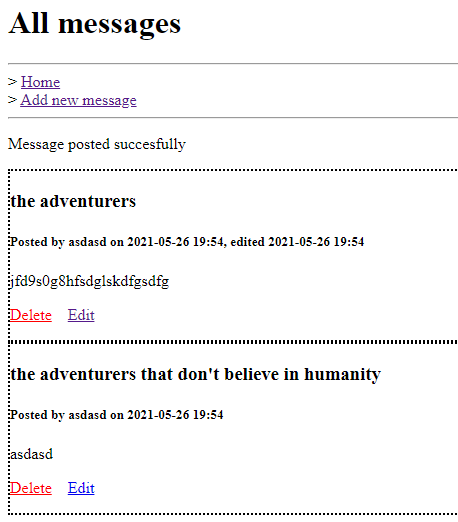
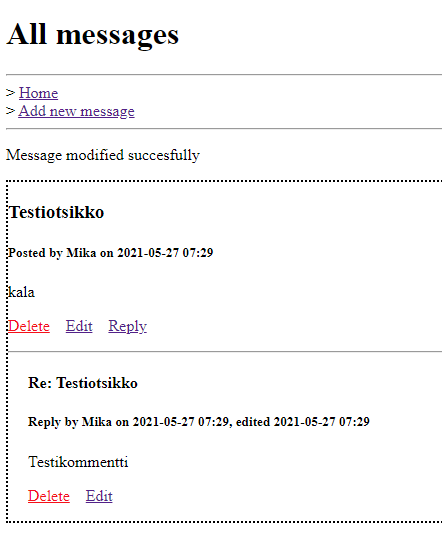
Modified reply system

Changed region(s): [[0.0, 0.3372, 1.0, 1.0], [0.0, 0.0, 1.0, 0.3065]]

diff --git a/pw3.3-flask-orm-crud/templates/index.html b/pw3.3-flask-orm-crud/templates/index.html
@@ -3,10 +3,21 @@
 {% block content %}
 {% for message in messages %}
 <div style="border: 2px; border-style: dotted;">
-<h3>{{ message.title }}</h3>
-<h5>Posted by {{ message.user }} on {{ message.timestamp.strftime('%Y-%m-%d %H:%M') }}{% if message.modified %}, edited {{ message.modified.strftime('%Y-%m-%d %H:%M') }}{% endif %}</h5>
-<p>{{ message.content }}</p>
-<p><a href="/delete?id={{ message.id }}" style = "color: red;">Delete</a>&nbsp;&nbsp;&nbsp;&nbsp;<a href="/edit?id={{ message.id }}">Edit</a></p>
+    <h3>{{ message.title }}</h3>
+    <h5>Posted by {{ message.user }} on {{ message.timestamp.strftime('%Y-%m-%d %H:%M') }}{% if message.modified %}, edited {{ message.modified.strftime('%Y-%m-%d %H:%M') }}{% endif %}</h5>
+    <p>{{ message.content }}</p>
+    <p><a href="/delete?id={{ message.id }}" style = "color: red;">Delete</a>&nbsp;&nbsp;&nbsp;&nbsp;<a href="/edit?id={{ message.id }}">Edit</a>&nbsp;&nbsp;&nbsp;&nbsp;<a href="/add?reply={{ message.id }}">Reply</a></p>
+    {% if message.replies %}
+    {% for reply in message.replies %}
+    <hr>
+    <div style="margin-left: 20px;">
+        <h4>{{ reply.title }}</h4>
+        <h5>Reply by {{ reply.user }} on {{ reply.timestamp.strftime('%Y-%m-%d %H:%M') }}{% if reply.modified %}, edited {{ reply.modified.strftime('%Y-%m-%d %H:%M') }}{% endif %}</h5>
+        <p>{{ reply.content }}</p>
+        <p><a href="/delete?id={{ reply.id }}" style = "color: red;">Delete</a>&nbsp;&nbsp;&nbsp;&nbsp;<a href="/edit?id={{ reply.id }}">Edit</a></p>
+    </div>
+    {% endfor %}
+    {% endif %}
 </div>
 {% endfor %}
 {% endblock content %}

diff --git a/pw3.3-flask-orm-crud/templates/add_form.html b/pw3.3-flask-orm-crud/templates/add_form.html
@@ -1,7 +1,7 @@
 {% extends 'base.html' %}
 
 {% block content %}
-<form method = "POST", action="/add">
+<form method = "POST">
     {% for field in form %}
     <p>{% if not field.flags.hidden %}{{ field.label }}: {% endif %}{{ field }}</p>
     {% endfor %}

diff --git a/pw3.3-flask-orm-crud/flask_orm_crud.py b/pw3.3-flask-orm-crud/flask_orm_crud.py
@@ -8,7 +8,7 @@ from markupsafe import escape
 
 
 app = Flask(__name__)
-app.secret_key = SystemRandom.randbytes(SystemError, 128)
+app.secret_key = SystemRandom.randbytes(SystemRandom, 128)
 
 db = SQLAlchemy(app)
 
@@ -17,13 +17,14 @@ class Message(db.Model):
     user = db.Column(db.String, nullable = False)
     title = db.Column(db.String, nullable = False)
     content = db.Column(db.String, nullable = False)
-    timestamp = db.Column(db.DateTime, nullable = False, default = datetime.now())
+    timestamp = db.Column(db.DateTime, nullable = False, default = datetime.utcnow())
     modified = db.Column(db.DateTime)
     parent_id = db.Column(db.Integer, db.ForeignKey('message.id'))
     replies = db.relationship('Message', backref = db.backref('parent', remote_side = [id]))
 
 NewMessageForm = model_form(Message, db_session = db.session, base_class = FlaskForm, exclude = ['replies', 'parent', 'timestamp', 'modified'])
 EditMessageForm = model_form(Message, db_session = db.session, base_class = FlaskForm, exclude = ['user', 'replies', 'parent', 'timestamp', 'modified'])
+ReplyMessageForm = model_form(Message, db_session = db.session, base_class = FlaskForm, exclude = ['title', 'replies', 'parent', 'timestamp', 'modified'])
 
 @app.before_first_request
 class initDB():
@@ -32,15 +33,22 @@ class initDB():
 @app.route('/')
 def index():
     title = 'All messages'
-    messages = Message.query.all()
+    messages = Message.query.filter(Message.parent_id == None).all()
     return render_template('index.html', title = title, messages = messages)
 
 @app.route('/add', methods = ['GET', 'POST'])
 def add():
-    form = NewMessageForm()
+    if not request.args.get('reply'):
+        form = NewMessageForm()
+    else:
+        form = ReplyMessageForm()
     if(form.validate_on_submit()):
         message = Message()
         form.populate_obj(message)
+        if request.args.get('reply'):
+            parent_id = int(request.args.get('reply'))
+            message.parent_id = parent_id
+            message.title = f'Re: {Message.query.get(parent_id).title}'
         db.session.add(message)
         db.session.commit()
         flash('Message posted succesfully')
@@ -54,9 +62,8 @@ def edit():
     message = Message.query.get(id)
     form = EditMessageForm(obj = message)
     if(form.validate_on_submit()):
-        message.title = request.form.get('title')
-        message.content = request.form.get('content')
-        message.modified = datetime.now()
+        form.populate_obj(message)
+        message.modified = datetime.utcnow()
         db.session.commit()
         flash('Message modified succesfully')
         return redirect('/')
